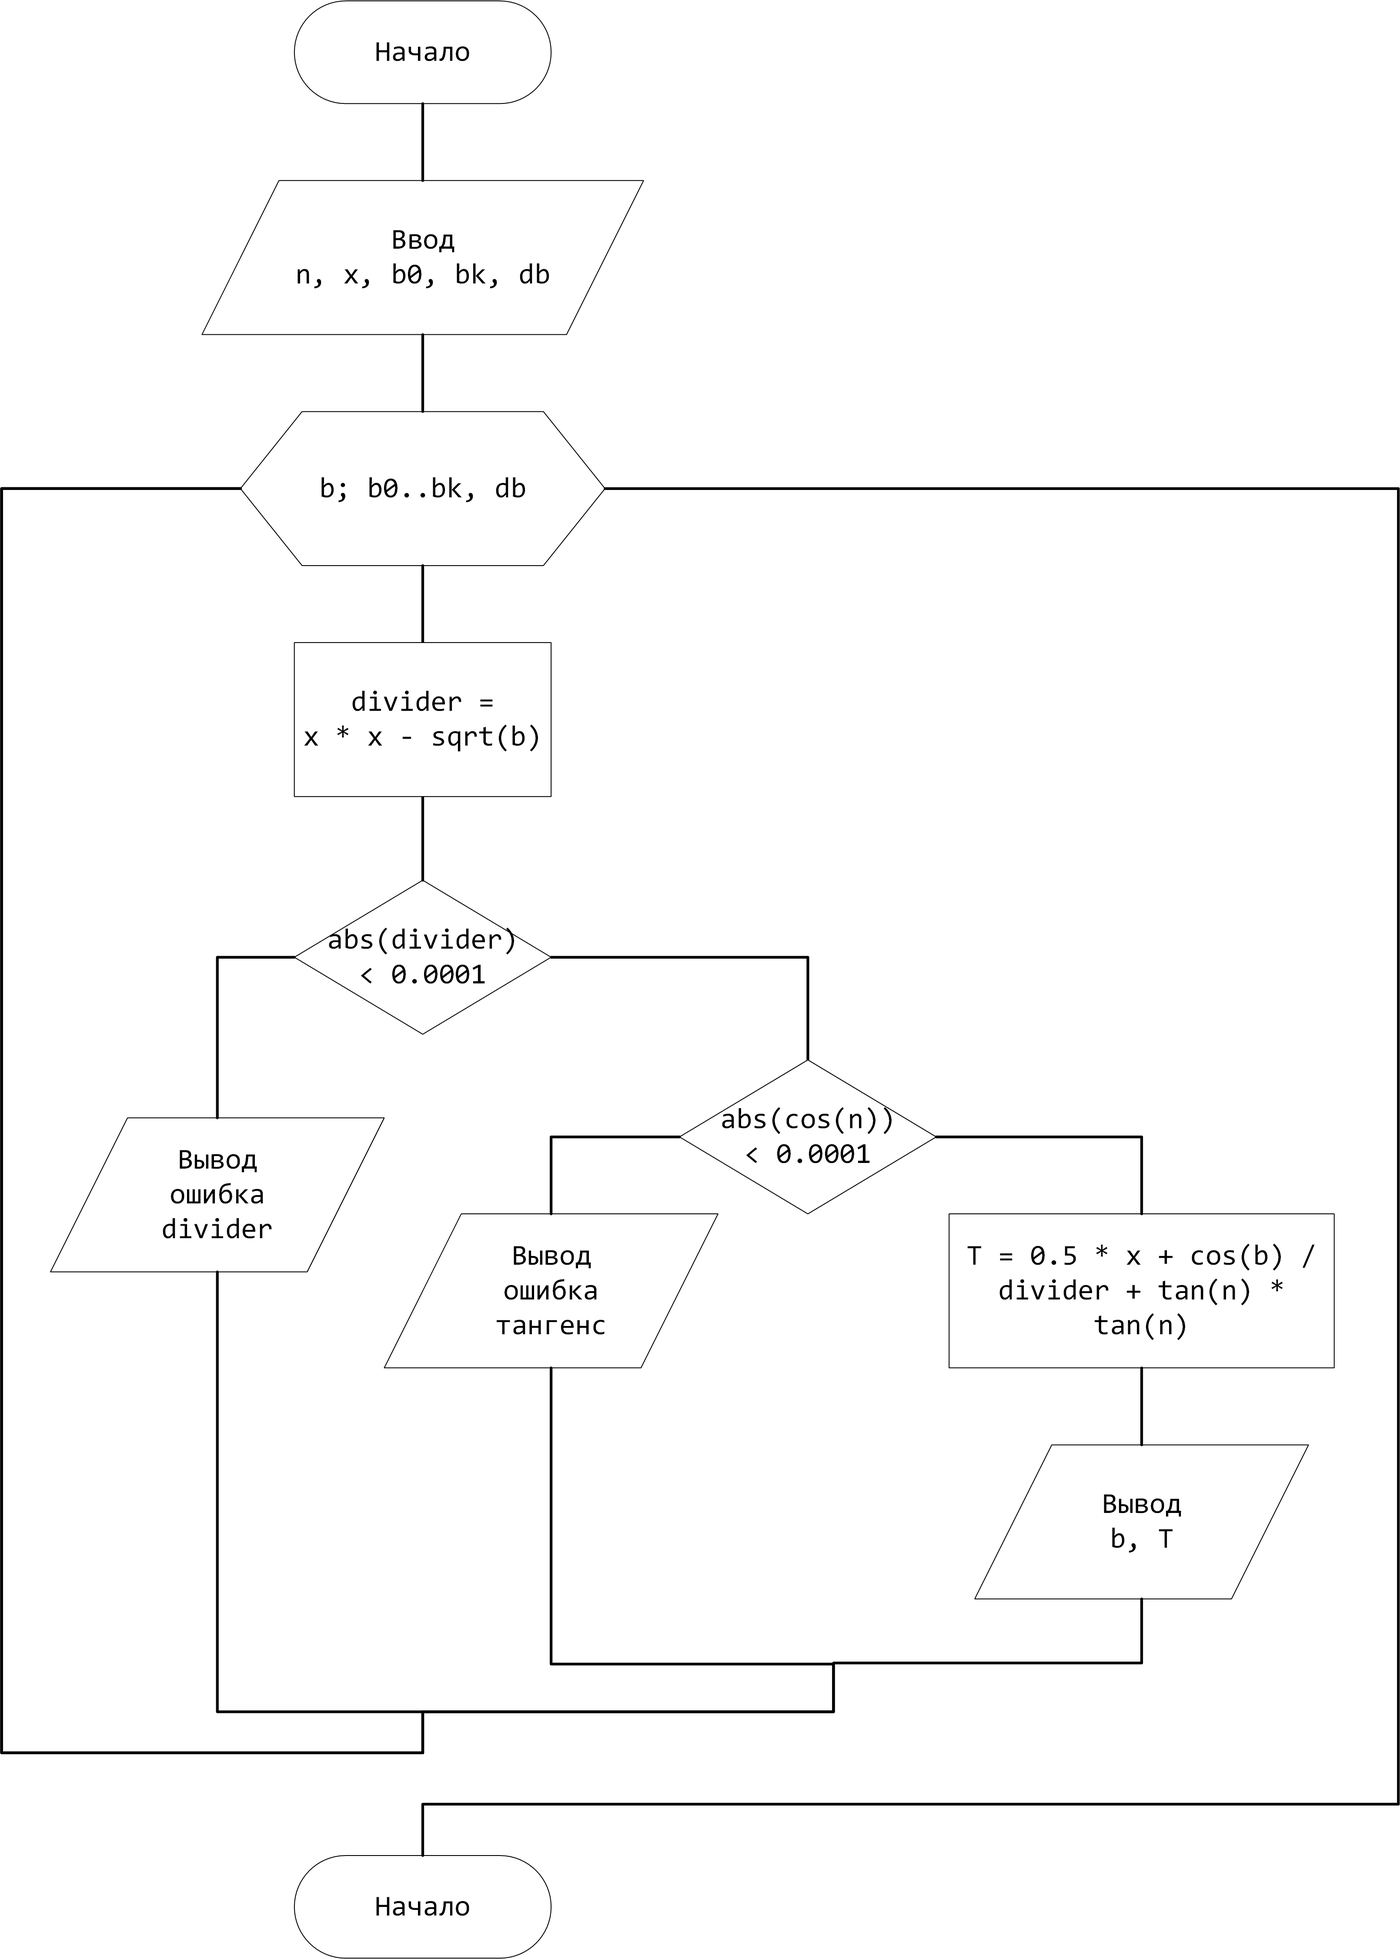
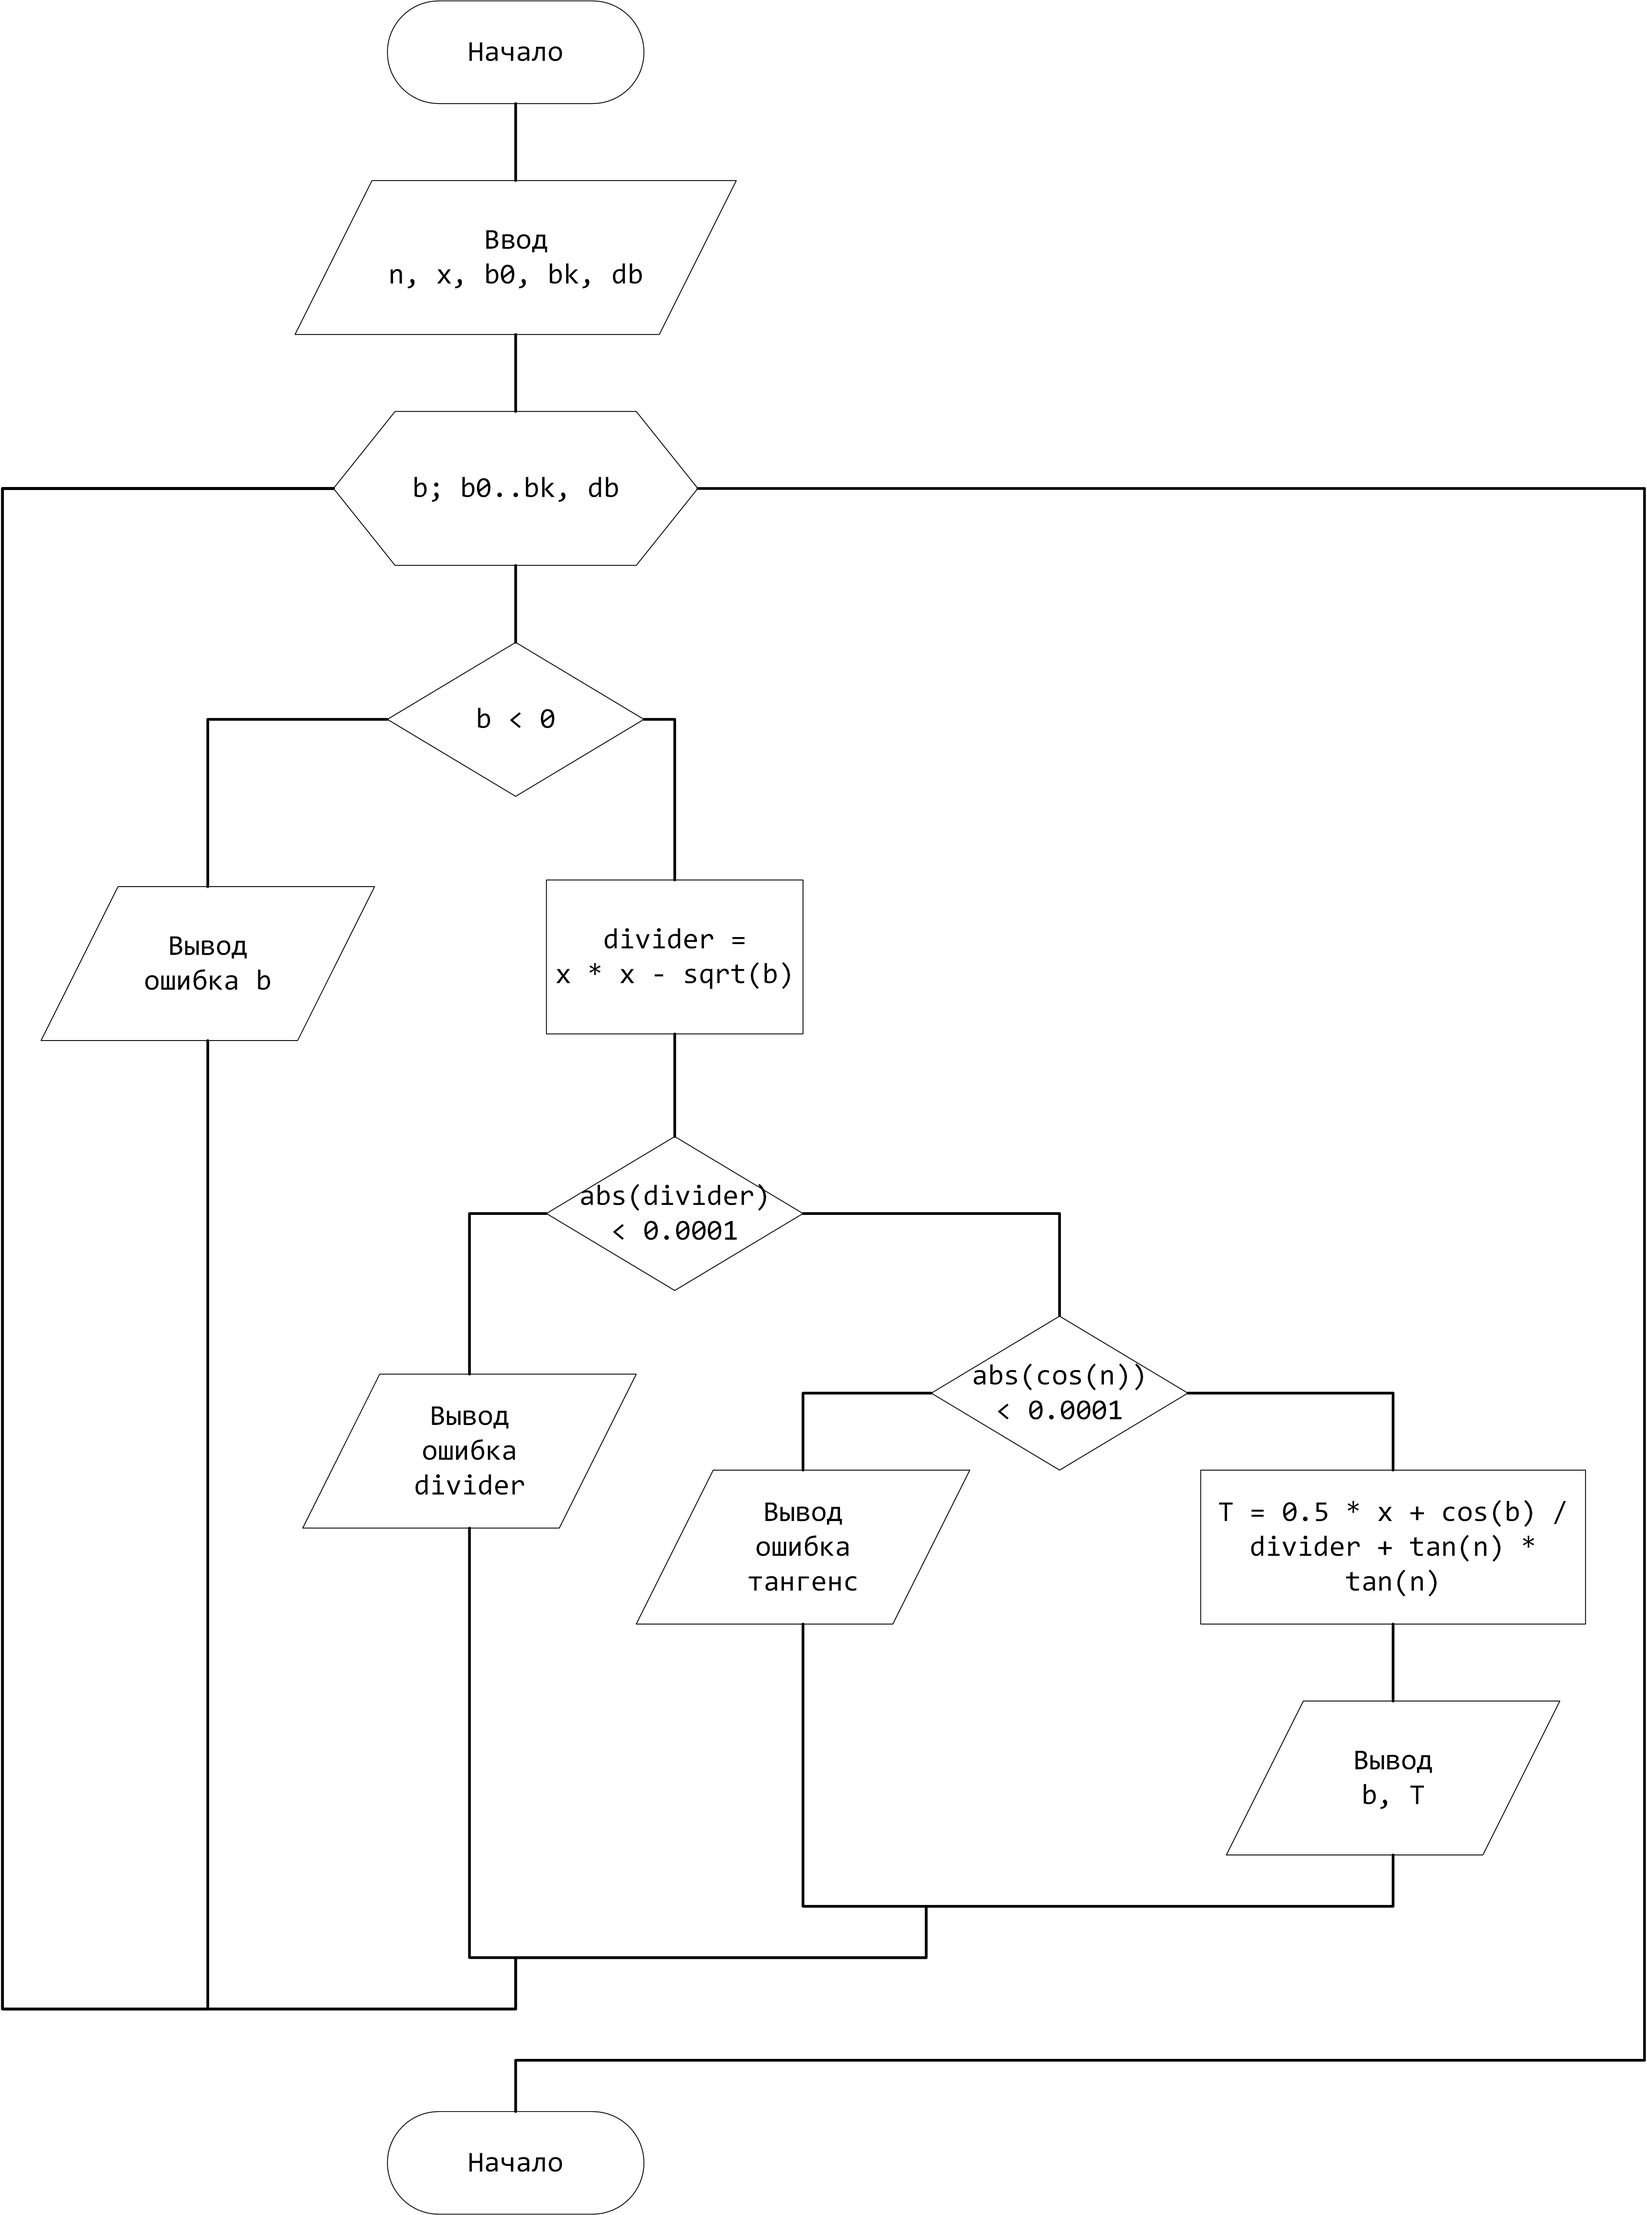
Add more fucking checks

diff --git a/Chernyak_3/Program.cs b/Chernyak_3/Program.cs
@@ -23,20 +23,27 @@ namespace Chernyak_3
             double db = double.Parse(Console.ReadLine().Replace(".", ","));
             for (double b = b0; b <= bk; b += db)
             {
-                double divider = (x * x - Math.Sqrt(b));
-                if (Math.Abs(divider) < 0.0001)
-                {
-                    Console.WriteLine("Ошибка на {0} шаге. Знаменатель {1}", b, divider);
-                }
-                else if (Math.Abs(Math.Cos(n)) < 0.0001)
-                {
-                    Console.WriteLine("Ошибка на {0} шаге. Тангенс угла {1} не вычисляется", b, n);
-                }
-                else
-                {
-                    double T = 0.5 * x + Math.Cos(b) / divider + Math.Tan(n) * Math.Tan(n);
-                    Console.WriteLine("T({0:0.00}) = {1:0.000}", b, T);
-                }
+				if (b < 0)
+				{
+					Console.WriteLine("Ошибка на {0} шаге. b меньше 0", b);
+				}
+				else
+				{
+					double divider = (x * x - Math.Sqrt(b));
+					if (Math.Abs(divider) < 0.0001)
+					{
+						Console.WriteLine("Ошибка на {0} шаге. Знаменатель {1}", b, divider);
+					}
+					else if (Math.Abs(Math.Cos(n)) < 0.0001)
+					{
+						Console.WriteLine("Ошибка на {0} шаге. Тангенс угла {1} не вычисляется", b, n);
+					}
+					else
+					{
+						double T = 0.5 * x + Math.Cos(b) / divider + Math.Tan(n) * Math.Tan(n);
+						Console.WriteLine("T({0:0.00}) = {1:0.000}", b, T);
+					}
+				}
             }
 
             Console.ReadKey(); //ожидание любой клавиши
